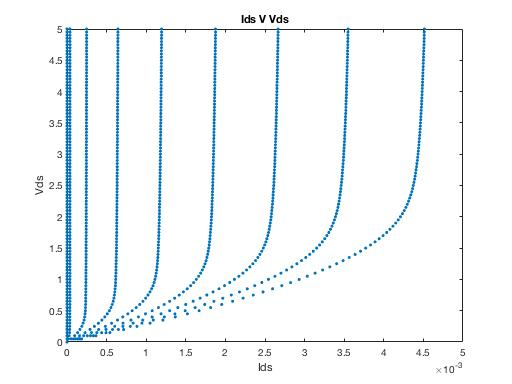
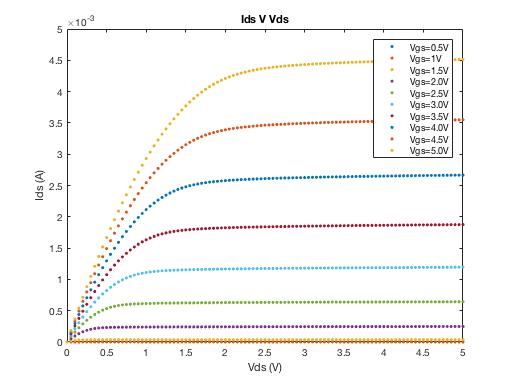
updated plot

Changed region(s): [[0.0625, 0.0312, 0.9062, 0.9062], [0.4688, 0.9375, 0.5625, 0.9688], [0.8438, 0.9375, 0.9062, 0.9688]]

diff --git a/leastSquareFitting/MATlab plot/myplot.m b/leastSquareFitting/MATlab plot/myplot.m
@@ -1,6 +1,7 @@
 a =100;
 figure;
-plot(data{:,3}, data{:,2},'.');
-xlabel("Ids");
-ylabel("Vds");
+plot(data{1:101,2}, data{1:101,3},'.',data{102:202,2}, data{102:202,3},'.',data{203:303,2}, data{203:303,3},'.',data{304:404,2}, data{304:404,3},'.',data{405:505,2}, data{405:505,3},'.',data{506:606,2}, data{506:606,3},'.',data{607:707,2}, data{607:707,3},'.',data{708:808,2}, data{708:808,3},'.',data{809:909,2}, data{809:909,3},'.',data{910:1010,2}, data{910:1010,3},'.');
+legend('Vgs=0.5V','Vgs=1V','Vgs=1.5V','Vgs=2.0V','Vgs=2.5V','Vgs=3.0V','Vgs=3.5V','Vgs=4.0V','Vgs=4.5V','Vgs=5.0V')
+xlabel("Vds (V)");
+ylabel("Ids (A)");
 title("Ids V Vds");
